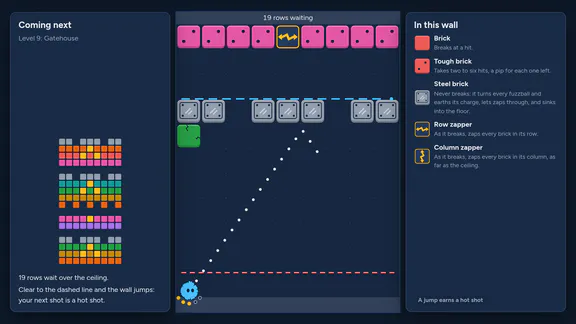
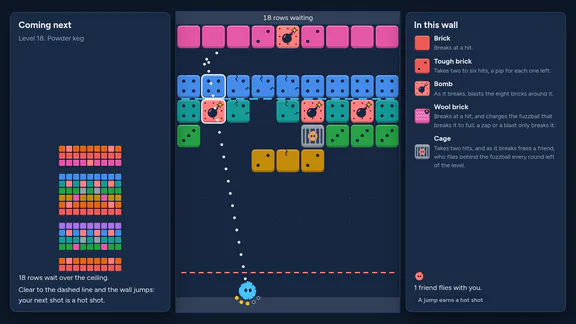
feat(brick-fuzz-pop): the site's screenshots on level 18, powder keg, its next shot aimed up through a bomb
T2's last part, now that Sparks' levels are in. The kept run begins on
level 18, Powder keg, on a field 11 deep, two rounds in by the first two
shots of its certificate there. Looked at again against the new wall,
the next shot is aimed at 100 degrees and a charge of 3, so the guide
climbs through the gap in the low rows and punches through a bomb and
the tough brick over it.

aimingKeys() works out in Node the keys a player presses from straight
up, the left arrow for an aim over 90 degrees as well as the right for
one under, and the page presses what it is handed; its spec holds them.

preview.webp and thumb.webp are captured again, index.html's alt text
describes the new picture, and the game's AGENTS.md says the screenshots
are taken on level 18, with T2 no longer among what is still to come.

diff --git a/frontend/games/brick-fuzz-pop/tools/capture-screenshots.spec.ts b/frontend/games/brick-fuzz-pop/tools/capture-screenshots.spec.ts
@@ -4,7 +4,13 @@ import { LEVELS, levelEntryOf } from "../src/rules/levels/levels";
 import { describeShot } from "../src/rules/run/describe";
 import { SAVED_GAME_VERSION, restoreGame } from "../src/rules/run/saved_game";
 import { certificateOf } from "../src/testing/every_level";
-import { AIMING, RUN, run, shownRun } from "./capture-screenshots.mjs";
+import {
+  AIMING,
+  RUN,
+  aimingKeys,
+  run,
+  shownRun,
+} from "./capture-screenshots.mjs";
 import { loadScreenshotApi } from "./stored_run.mjs";
 
 /**
@@ -17,6 +23,18 @@ async function ran(
   const printer = recordingPrinter();
   const code = await run(args, printer);
   return { code, out: printer.out, err: printer.err };
+}
+
+/** Returns how many times each key is pressed, by its code and key code. */
+function countedPresses(
+  keys: readonly { code: string; keyCode: number }[],
+): Record<string, number> {
+  const counted: Record<string, number> = {};
+  for (const { code, keyCode } of keys) {
+    const key = `${code} ${String(keyCode)}`;
+    counted[key] = (counted[key] ?? 0) + 1;
+  }
+  return counted;
 }
 
 describe("run", () => {
@@ -84,12 +102,28 @@ describe("shownRun", () => {
   it("says the aim the keys give the next shot as the game says it", async () => {
     const shown = shownRun(await loadScreenshotApi());
 
-    // 55 degrees is aim 188: 4 aims a degree, from 8 degrees.
+    // 100 degrees is aim 368: 4 aims a degree, from 8 degrees.
     expect([AIMING, shown.aimed]).toEqual([
-      { degrees: 55, charge: 3 },
-      describeShot({ aim: 188, charge: 3 }),
+      { degrees: 100, charge: 3 },
+      describeShot({ aim: 368, charge: 3 }),
     ]);
   });
+});
+
+describe("aimingKeys", () => {
+  it.each([
+    [
+      { degrees: 100, charge: 3 },
+      { "ArrowLeft 37": 10, "ArrowUp 38": 3 },
+    ],
+    [{ degrees: 55, charge: 0 }, { "ArrowRight 39": 35 }],
+    [{ degrees: 90, charge: 5 }, { "ArrowUp 38": 5 }],
+  ])(
+    "presses for %j, from straight up and no charge, %j",
+    (aiming, presses) => {
+      expect(countedPresses(aimingKeys(aiming))).toEqual(presses);
+    },
+  );
 });
 
 describe("RUN", () => {

diff --git a/frontend/games/brick-fuzz-pop/index.html b/frontend/games/brick-fuzz-pop/index.html
@@ -32,7 +32,7 @@
     <meta property="og:image:height" content="1440" />
     <meta
       property="og:image:alt"
-      content="A game of Brick Fuzz Pop on level 9, Gatehouse: tough bricks, a row zapper and a row of steel over the field, the fuzzball on the floor aiming up at them."
+      content="A game of Brick Fuzz Pop on level 18, Powder keg: rows of tough bricks, bombs and a caged friend, the fuzzball's dotted aim line running up through a gap into a bomb."
     />
     <meta name="twitter:card" content="summary_large_image" />
     <script type="application/ld+json">

diff --git a/docs/brick-fuzz-pop/worklog/shell.md b/docs/brick-fuzz-pop/worklog/shell.md
@@ -2299,3 +2299,88 @@ page changes in one pass whatever their order.
    `DeferBlockState` is a value the fence keeps out of `src/testing/`.
 
 The fixes follow the review's own words, so they had no second review.
+
+### T2's last part: the screenshots on level 18
+
+**2026-11-11.** At the integrator's word, once Y1 had merged Sparks' levels
+and certificates.
+
+**What was built.**
+
+- **The run shown.** `tools/capture-screenshots.mjs`'s `RUN` begins on
+  level 18, Powder keg, the last of Sparks, on a field 11 deep, and plays
+  the first two shots of its certificate there, `[36, 5]` and `[272, 5]`;
+  taken up, it shows 2 rounds against a par of 15, a score of 1,260, a
+  friend freed, and 18 rows waiting over the ceiling.
+- **The aim, looked at again.** At 55 degrees and a charge of 3, the
+  guide crossed the open field and turned off a gold tough brick, the
+  wall's bombs out of its way. Of twelve aims captured and looked at
+  (55, 60, 64, 68, 72, 74, 76, 80 and 86 degrees to the right, 97, 100
+  and 102 to the left, at charges of 3 to 5), `AIMING` takes 100 degrees
+  and a charge of 3: the guide climbs through the gap in the low rows and
+  punches through a bomb and the tough brick over it, on the level named
+  for its bombs, the meter showing three pips.
+- **The keys to the left.** `goOn()` pressed only the right arrow, so it
+  could aim only at 90 degrees or under. `aimingKeys()` now works out, in
+  Node, the keys a player presses from straight up, the left arrow a
+  degree over 90, the right a degree under, then the up arrow a notch,
+  and `goOn()` presses what it is handed.
+- **The images.** `public/docs/screenshots/brick-fuzz-pop/preview.webp`
+  (2560 × 1440, 112 KB) and `thumb.webp` (576 × 324, 18 KB), captured
+  against the dev server and looked at: the bar, both panels, the field with
+  its five rows of bricks, four of them tough, four bombs and the cage, the
+  guide and its two outlines, all within the frame and the crop.
+- **The docs.** `index.html`'s `og:image:alt` describes the new picture;
+  the game's `AGENTS.md` says the screenshots are taken on level 18, drops
+  T2 from what is still to come, and its Capture Screenshots entry names
+  the level, the aim and the bomb; the script's own docs follow.
+
+**Choices the plan didn't make.**
+
+1. **Aimed to the left, at a bomb,** rather than kept at 55 degrees:
+   Powder keg's picture should show its bombs in play, and the guide's
+   outlines are the clearest way the field shows what a shot will do.
+   Aimed straight at the gap (86 degrees, charge 4) the guide punched two
+   tough bricks in a column; at a full charge (60 degrees) the fuzzball
+   sparks, but the guide's outlines fall on the cage's neighbours.
+
+**Checks.** The workspace's `lint`, `typecheck` and `test:coverage`
+(`--maxWorkers=4`): 110 files, 5,327 tests after the review, then the
+`sim` project's 23 files, 285 tests; the root's `yarn lint` passes. The game built alone (its
+main chunk 423.02 kB, 131.97 kB gzipped, at Y1's tip), and its
+`yarn check:layout` holds at each shape and turn, as a level waits for its
+first shot and over a run taken up. `yarn capture:screenshots`, against the
+dev server on 9166 at `[::1]`, where it listens: "Took up the run with a
+score of 1,260, and went on with it, aimed at 100 degrees, charge 3."
+
+**The mutation pass.** Before the review, with the keys worked out in the
+page: `RUN` off its certificate and `AIMING` at another aim, each killed
+by `capture-screenshots.spec.ts`; and in the capture, run against the dev
+server, its images kept aside, the left and right arrows swapped and no
+turn past straight up each missed its shot ("the game didn't say "100
+degrees, charge 3""), while the left arrow's event given the right's
+`keyCode` captured the same bytes, as the steering reads `event.code`.
+After it, with `aimingKeys()` in Node: the arrows swapped, no turn past
+straight up, the left arrow's `keyCode` the right's and a notch short were
+all killed by its spec. The page handed straight up's keys rather than
+`AIMING`'s lived the specs, as only the capture runs the page; it is the
+mutant the capture missed its shot for above.
+
+**The review:**
+
+1. _`goOn()`'s choice of arrow and count of presses runs only in Chrome,
+   so no spec holds it._ Taken: `aimingKeys()` works the presses out in
+   Node and `goOn()` presses what it is handed; its spec holds 100 degrees
+   to ten left presses and three up, 55 to thirty-five right, and 90 to
+   none, and the inline comment went with the code.
+2. _The alt text is twice the other games' length, says "guide", the
+   game's own word, and reads as if the cage hangs over the field._ Taken:
+   "rows of tough bricks, bombs and a caged friend, the fuzzball's dotted
+   aim line running up through a gap into a bomb", 166 characters.
+3. _The log's "five rows of tough bricks": the top row is six plain bricks,
+   two tough ones and a bomb._ Taken: five rows of bricks, four of them
+   tough.
+4. _`turn` names a key._ Gone with the first.
+
+The fixes follow the review's own words, so they had no second review;
+the capture, run again, wrote the same bytes.

diff --git a/frontend/games/brick-fuzz-pop/AGENTS.md b/frontend/games/brick-fuzz-pop/AGENTS.md
@@ -22,9 +22,8 @@ stream's work logged under `docs/brick-fuzz-pop/worklog/`. So far the shell
 places the board, the bar, the dialogs, the settings drawer and the result
 card, each wired to the game, so a run can be played in the page, through
 Warm-up's and Sparks' eighteen levels. The site lists it as in
-development, its screenshots taken on a level of Warm-up until T2 takes
-them on level 18. What the plan's packages still to come build (the rest of
-T2, the screenshots on level 18, then X2, Y2 and Y3, D1, F1, Z1 and Z2)
+development, its screenshots taken on level 18, the last of Sparks. What
+the plan's packages still to come build (X2, Y2 and Y3, D1, F1, Z1 and Z2)
 isn't here yet.
 
 ## Technology Stack
@@ -573,16 +572,16 @@ Run these from `frontend/games/brick-fuzz-pop/`, or as
   takes up paused, its wall on the row the run kept it on at every shape
   and through each turn, whatever the field's depth).
 - **Capture Screenshots:** `yarn capture:screenshots` (runs
-  `tools/capture-screenshots.mjs` against the running dev server in
-  headless Chrome, through `@fz/dev/screenshots`' `runScreenshotScript()`:
-  a run kept by the rules (`keptRun()`, in `src/testing/kept_run.ts`, which
-  it loads through `src/testing/screenshot_api.ts`'s `SCREENSHOT_API`,
-  with the version the shell keeps it under), begun on level 9, Gatehouse,
-  on a field 11 deep and played two rounds in by the first two shots of
-  its certificate there, taken up and gone on with, the next shot aimed by
-  the arrow keys at 55 degrees and a charge of 3, which it waits to hear
-  the game say, at 1280 × 720 and 2× on Midnight blue, written to
-  `public/docs/screenshots/brick-fuzz-pop/` as the site's `preview.webp`
+  `tools/capture-screenshots.mjs` against the running dev server in headless
+  Chrome, through `@fz/dev/screenshots`' `runScreenshotScript()`: a run kept
+  by the rules (`keptRun()`, in `src/testing/kept_run.ts`, which it loads
+  through `src/testing/screenshot_api.ts`'s `SCREENSHOT_API`, with the
+  version the shell keeps it under), begun on level 18, Powder keg, on a
+  field 11 deep and played two rounds in by the first two shots of its
+  certificate there, taken up and gone on with, the next shot aimed by the
+  arrow keys up through a bomb, at 100 degrees and a charge of 3, which it
+  waits to hear the game say, at 1280 × 720 and 2× on Midnight blue, written
+  to `public/docs/screenshots/brick-fuzz-pop/` as the site's `preview.webp`
   (2560 × 1440), which `index.html` names as the link preview, and
   `thumb.webp` (576 × 324), cropped around the field; `--url` points it at
   another server than `http://localhost:9006/`).
